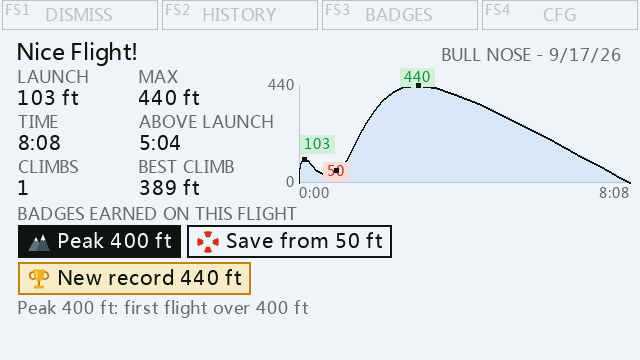
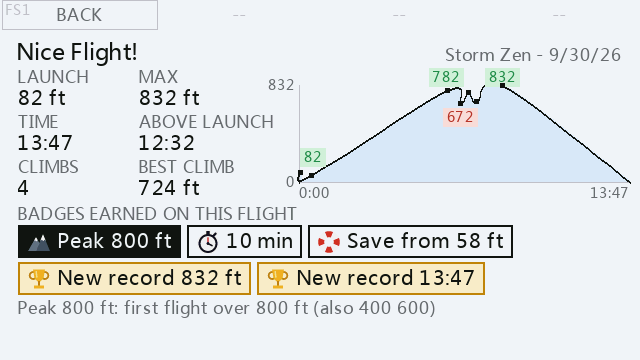
README: real-radio screenshots of the 832 ft recap and the Badges screen
Captured on the pilot's X14 after the first field test (2026-09-30). The
Live and History captures remain simulator replays.

diff --git a/README.md b/README.md
@@ -11,22 +11,23 @@ Zoom = 3, Landing = 4, and the launch button resetting the Altitude sensor).
 
 ## Screenshots
 
-Captured from the FrSky Suite X14 simulator (Ethos 26.1.2) while replaying a
-real logged flight: a 93 ft launch that sank to 49 ft, then climbed out to
-440 ft.
+The recap and the Badges screen are straight off an X14 after a real flight
+on 2026-09-30: an 82 ft launch that sank to 58 ft, then climbed out to 832 ft
+and stayed up for 13:47.
 
-| In flight | After landing |
+| After landing | Badges |
 |---|---|
-| ![Live screen: flight timer and max altitude in large digits, current altitude, launch height, and a gold "New record 440 ft" badge earned in the air](docs/screenshots/live.png) | ![Recap screen: launch, max, time, time above launch, climbs, the simplified altitude graph, and three badges earned](docs/screenshots/recap.png) |
-| **Live.** Timer and max in large digits, with the latest badge earned in the air. | **Recap.** The numbers, the simplified graph, and every badge the flight earned. |
+| ![Recap screen on the radio: launch 82 ft, max 832 ft, 13:47, four climbs, the simplified altitude graph, and the badges earned: Peak 800 ft, 10 min, Save from 58 ft and two new records](docs/screenshots/recap.png) | ![Badges screen on the radio: eight badge families with what has been earned, the Peak ladder with 400, 600 and 800 ft earned, and a plain definition](docs/screenshots/badges.png) |
+| **Recap.** The numbers, the simplified graph, and every badge the flight earned. | **Badges.** What you have, what is left to chase, and a plain definition of each. |
 
-| History |
-|---|
-| ![History screen: nice flights newest first, with launch height, max, duration, badge icons and model name](docs/screenshots/history.png) |
-| **History.** Every nice flight, newest first, across all planes. |
+| In flight | History |
+|---|---|
+| ![Live screen: flight timer and max altitude in large digits, current altitude, launch height, and a gold "New record 440 ft" badge earned in the air](docs/screenshots/live.png) | ![History screen: nice flights newest first, with launch height, max, duration, badge icons and model name](docs/screenshots/history.png) |
+| **Live.** Timer and max in large digits, with the latest badge earned in the air. | **History.** Every nice flight, newest first, across all planes. |
 
-"RX --" appears because the simulator does not feed the RX voltage sensor; on
-a radio it shows the receiver pack voltage.
+The Live and History captures are from the FrSky Suite simulator replaying a
+logged flight, where "RX --" appears because the simulator does not feed the
+RX voltage sensor; on a radio it shows the receiver pack voltage.
 
 ## Screens
 
